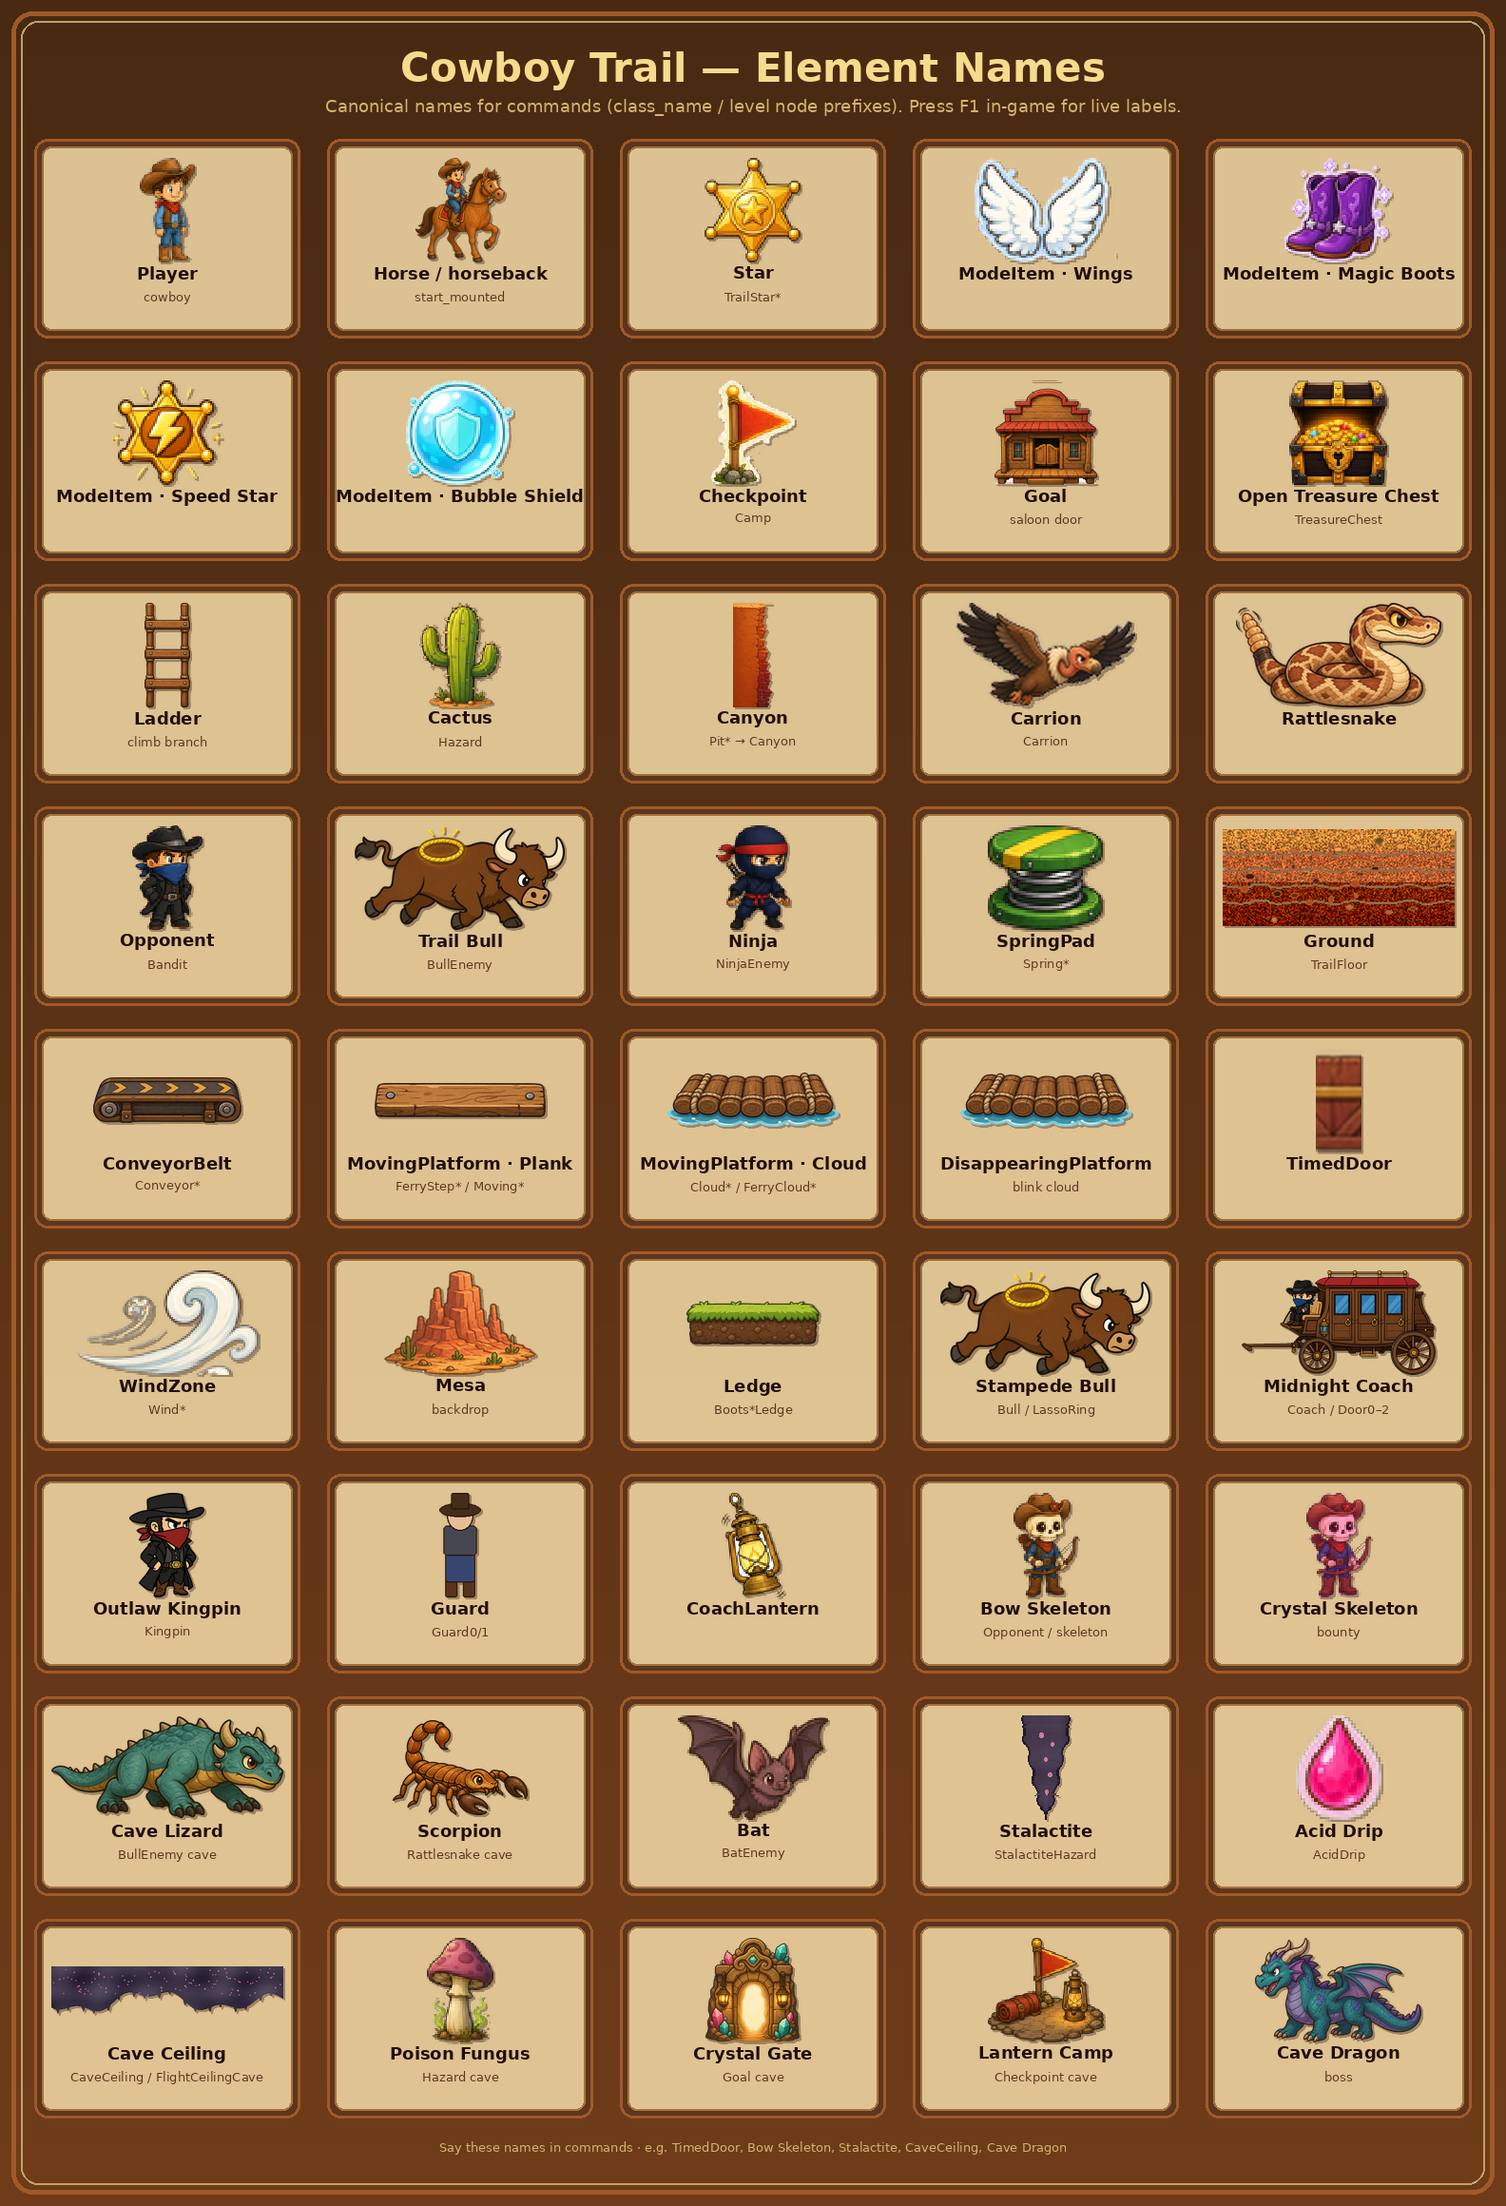
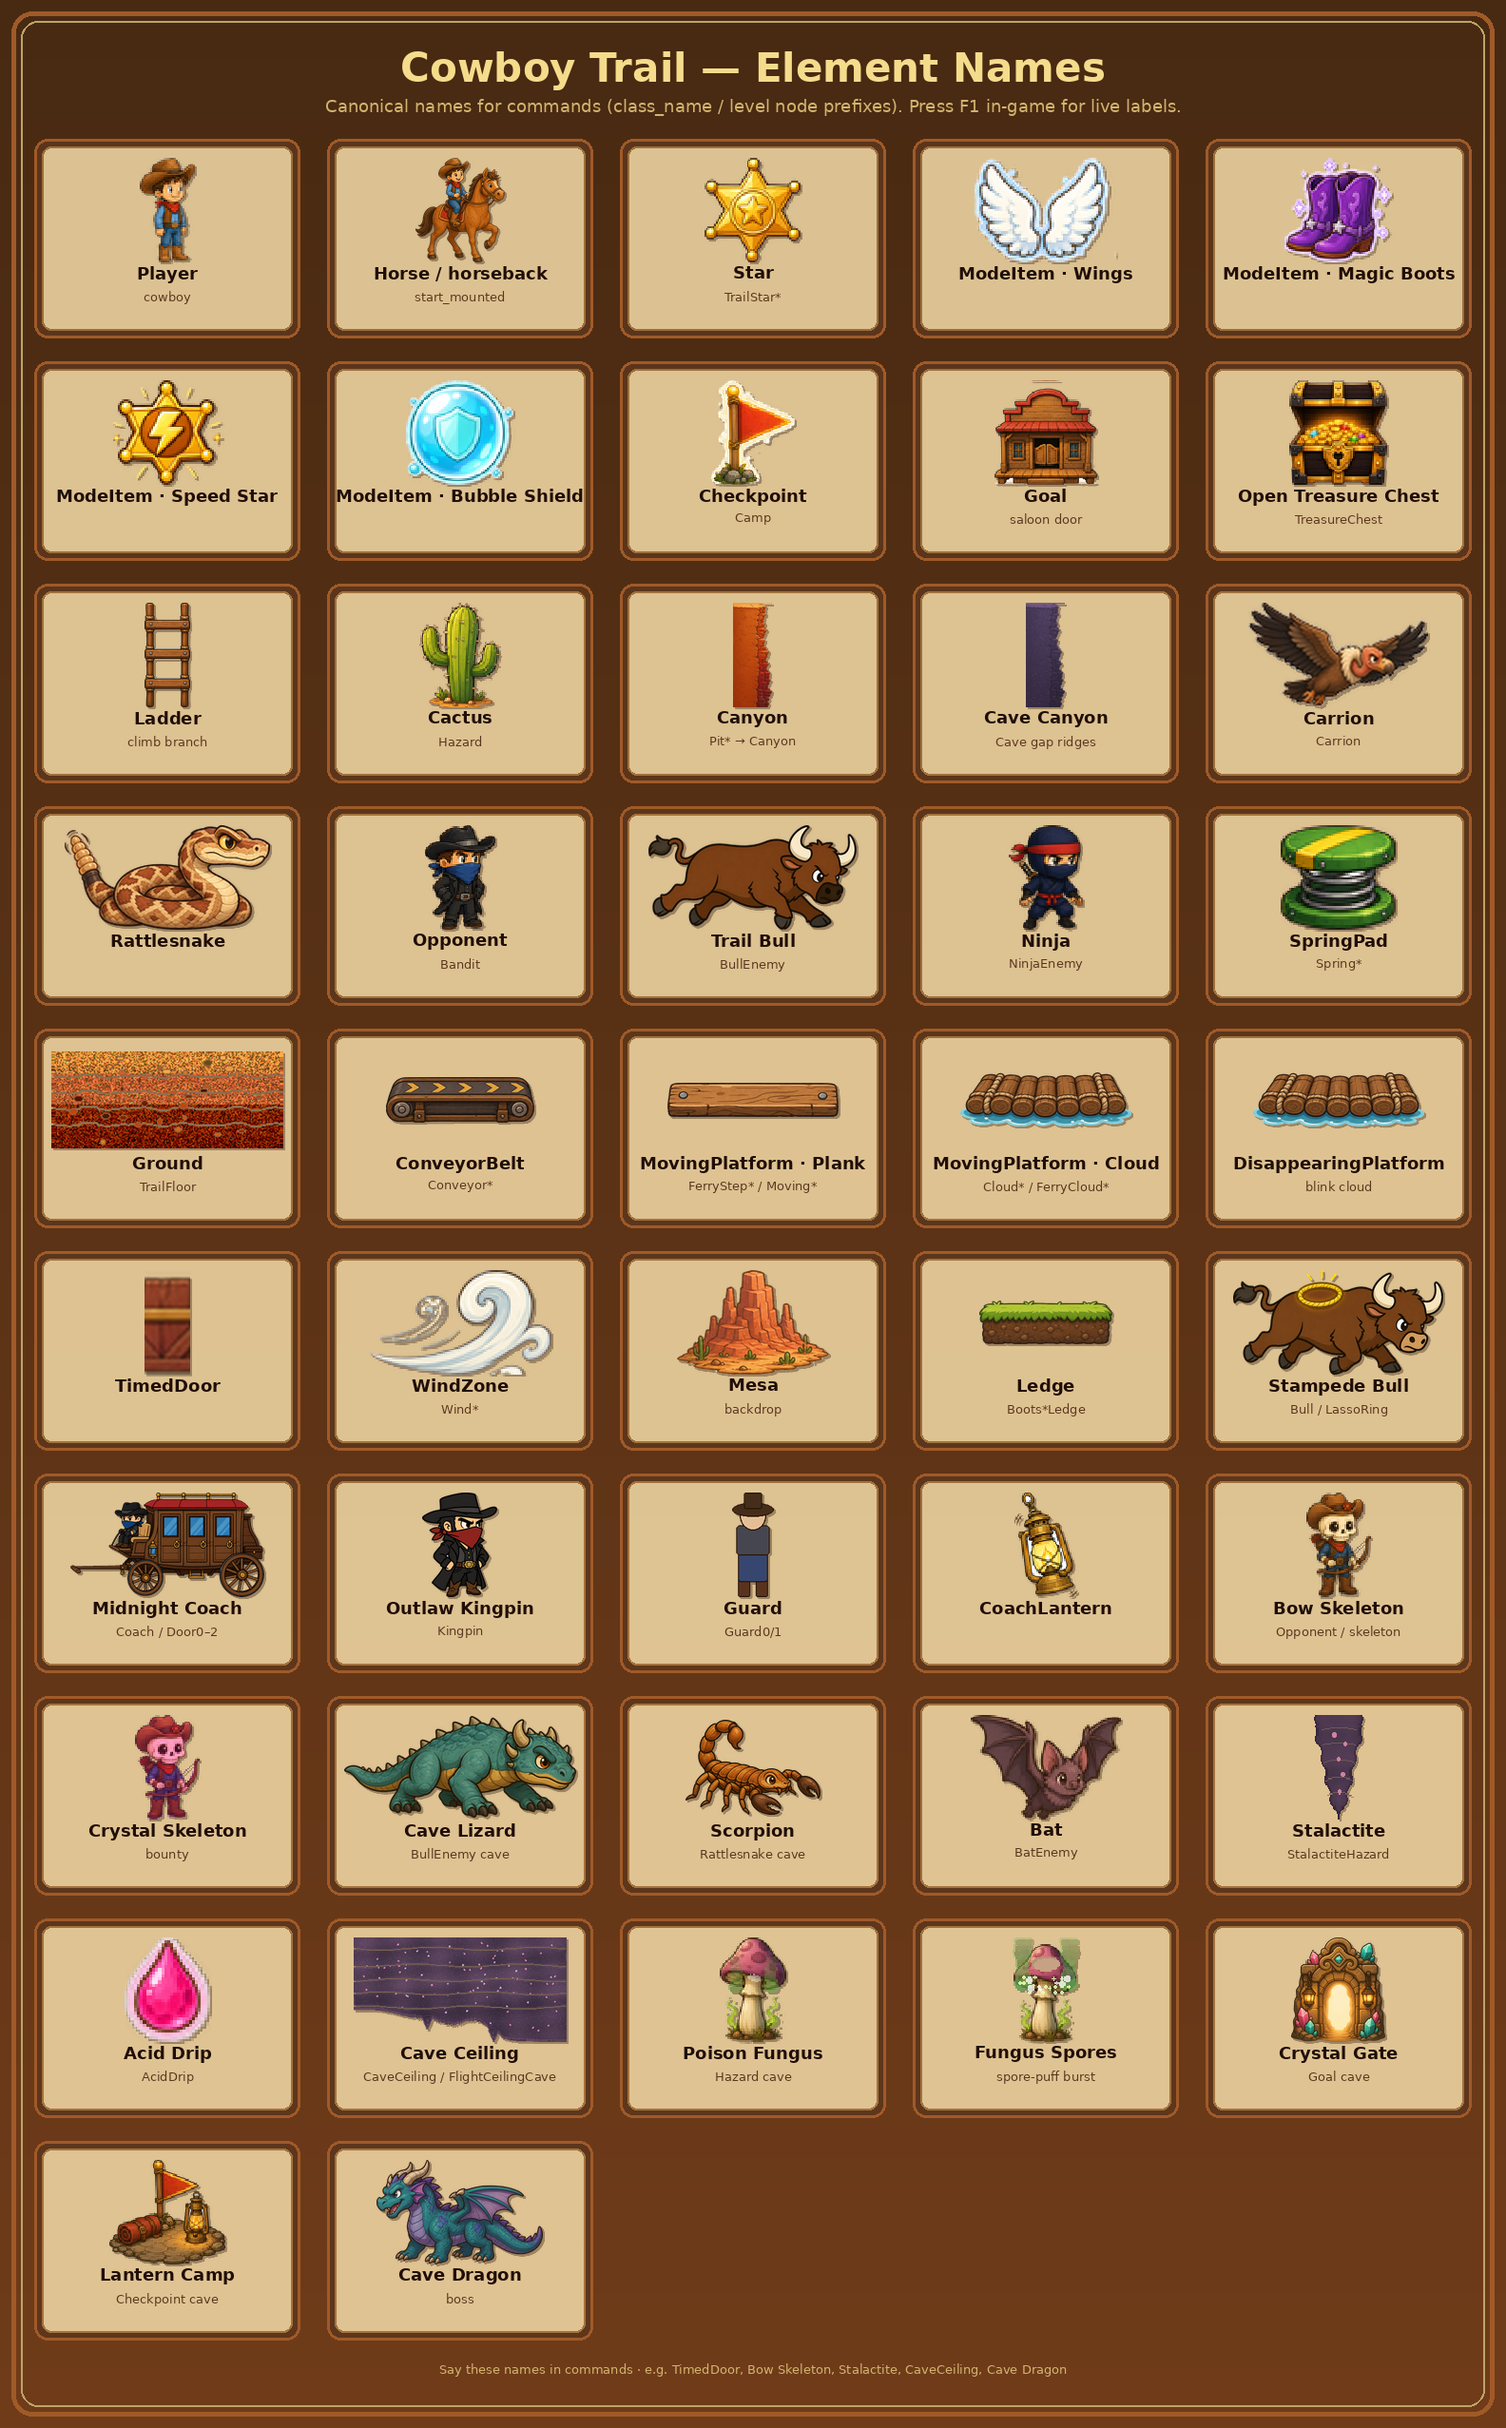
Give trail bulls ring-free art and run cycles for trail and boss.
Trail enemies no longer reuse the stampede ring sprite; both trail and Stampede Bull play a 4-frame charge run.

diff --git a/tools/build_bull_frames.py b/tools/build_bull_frames.py
@@ -1,0 +1,91 @@
+"""Build trail/boss bull standing + run frames from `assets/source/bull/`.
+
+Trail bull standing has no painted lasso ring. Boss standing stays
+`assets/world/boss_stampede_bull.png` (ring kept for the stampede fight).
+Run cycles are 4-frame strips keyed and framed to 320×160.
+
+    python tools/build_bull_frames.py
+"""
+from __future__ import annotations
+
+from pathlib import Path
+
+from PIL import Image
+
+from art_pipeline import cutout, frame_sprite
+
+ROOT = Path(__file__).resolve().parent.parent
+SRC = ROOT / "assets" / "source" / "bull"
+OUT = ROOT / "assets" / "world"
+
+CANVAS = (320, 160)
+BASELINE = 150
+BODY_H = 118
+
+
+def _frame(img: Image.Image) -> Image.Image:
+	return frame_sprite(img, canvas=CANVAS, target_h=BODY_H, baseline=BASELINE)
+
+
+def _column_density(im: Image.Image, *, win: int = 8) -> list[float]:
+	w, h = im.size
+	ap = im.split()[3].load()
+	dens = [sum(1 for y in range(h) if ap[x, y] > 8) for x in range(w)]
+	smooth: list[float] = []
+	for x in range(w):
+		lo = max(0, x - win)
+		hi = min(w, x + win + 1)
+		smooth.append(sum(dens[lo:hi]) / (hi - lo))
+	return smooth
+
+
+def _valley_cuts(im: Image.Image, count: int = 4) -> list[int]:
+	"""Split a packed horizontal strip at density valleys between figures."""
+	w, _ = im.size
+	sm = _column_density(im)
+	cuts = [0]
+	for bi in range(1, count):
+		center = int(w * bi / count)
+		lo = max(0, center - 50)
+		hi = min(w, center + 50)
+		region = sm[lo:hi]
+		best = min(range(len(region)), key=lambda i: region[i])
+		cuts.append(lo + best)
+	cuts.append(w)
+	return cuts
+
+
+def _save_strip(src_name: str, out_prefix: str) -> None:
+	keyed = cutout(str(SRC / src_name), level=200, sat=25)
+	cuts = _valley_cuts(keyed, 4)
+	inset = 10
+	for i in range(4):
+		x0 = cuts[i] + inset
+		x1 = cuts[i + 1] - inset
+		cell = keyed.crop((x0, 0, x1, keyed.size[1]))
+		bbox = cell.getbbox()
+		if bbox:
+			cell = cell.crop(bbox)
+		path = OUT / f"{out_prefix}_run_{i}.png"
+		_frame(cell).save(path)
+		print("wrote", path.relative_to(ROOT))
+
+
+def build() -> None:
+	stand_src = SRC / "standing_no_ring.png"
+	if not stand_src.exists():
+		raise SystemExit(f"Missing {stand_src}")
+	stand = cutout(str(stand_src), level=200, sat=25)
+	bbox = stand.getbbox()
+	if bbox:
+		stand = stand.crop(bbox)
+	stand_path = OUT / "trail_bull.png"
+	_frame(stand).save(stand_path)
+	print("wrote", stand_path.relative_to(ROOT))
+
+	_save_strip("run_strip_no_ring.png", "trail_bull")
+	_save_strip("run_strip_boss.png", "boss_stampede_bull")
+
+
+if __name__ == "__main__":
+	build()

diff --git a/tools/build_element_reference.py b/tools/build_element_reference.py
@@ -33,7 +33,7 @@ ENTRIES: list[tuple[str, str, str]] = [
     ("Carrion", "assets/world/carrion_bird.png", "Carrion"),
     ("Rattlesnake", "assets/world/rattlesnake_idle.png", ""),
     ("Opponent", "assets/world/bandit.png", "Bandit"),
-    ("Trail Bull", "assets/world/boss_stampede_bull.png", "BullEnemy"),
+    ("Trail Bull", "assets/world/trail_bull.png", "BullEnemy"),
     ("Ninja", "assets/world/ninja_idle.png", "NinjaEnemy"),
     ("SpringPad", "assets/world/spring.png", "Spring*"),
     # Platforms & world

diff --git a/README.md b/README.md
@@ -2,7 +2,7 @@
 
 Child-friendly 2D western cowboy platformer (Godot **4.4**). Aimed at kids ~6: forgiving jumps, nonviolent lasso. **Classic mode** has no lives or game over; **Advanced Mode** (chosen in **Settings** before starting or continuing a slot) adds a three-life limit, badge milestones, and a game-over return to the start screen. Pick **Cowboy** or **Cowgirl** in Settings — the choice applies across all save slots. **German is the default language**; English is fully supported.
 
-**Content version:** `1.8.47` (see `content_version.txt`). Launchers reimport when this stamp changes.
+**Content version:** `1.8.48` (see `content_version.txt`). Launchers reimport when this stamp changes.
 
 This README is the **binding source of truth** for gameplay, level design, art, i18n, and audio. Agents and contributors must follow it (see [Agent / contributor rules](#agent--contributor-rules)).
 
@@ -126,7 +126,7 @@ Agents **must** honor these when editing levels or trail systems:
 - User-facing copy: wide trail gaps = **canyon**; fixed 128×64 dirt holes = **pit** (legacy node names like `Pit3` on scaled canyon hazards may remain internally).
 - **Pits:** workshop **Hazards** stamp; exact `pit.png` size; dirt-only placement; same fall/respawn/life rules as canyons (Bubble Shield does not save pit falls).
 - Bandits: downward jump stomp from above / lasso tie; any other contact hurts; **turn at plank edges** (do not walk off).
-- **Trail bulls / cave lizards:** reuse stampede-bull / lizard art scaled to bandit height; charge the player when nearby (always face the cowboy); at a **pit or canyon lip** they **turn around and run back ~8 cm** instead of tumbling in; workshop/campaign placement keeps them on **solid dirt only** (never on a pit mouth or canyon stamp); lasso or head stomp plays the full boss tying sequence (rope coils → legs bound → tip over → lying on the floor at the same on-screen size); side contact hurts.
+- **Trail bulls / cave lizards:** trail bulls use ring-free standing art plus a short run cycle while charging/retreating (cave lizards keep lizard art); charge the player when nearby (always face the cowboy); at a **pit or canyon lip** they **turn around and run back ~8 cm** instead of tumbling in; workshop/campaign placement keeps them on **solid dirt only** (never on a pit mouth or canyon stamp); lasso or head stomp plays the full boss tying sequence (rope coils → legs bound → tip over → lying on the floor at the same on-screen size); side contact hurts. Stampede Bull boss keeps the painted back ring and uses its own run frames while charging.
 - **Ninjas:** handcrafted **chibi cel-shaded sprites** in the same big-head / thick-ink style as the bandit (`tools/build_ninja_frames.py`: hooded head, red headband + obi, navy gi, 64×80); workshop stamp marks an **ambush anchor** — when the cowboy enters range, the ninja **appears ~12 columns (480 px) in front** of him, runs in with a **sword slash** on reach, **jumps pits and canyons** toward the cowboy (crouch + airborne jump frames), and throws hand-drawn **shuriken** at winged flyers; lasso or head stomp ties with a unique bound rope pose; **camp respawn** cancels appear/chase/jump and hides him back at the stamp post (unless already tied at that camp).
 - **No cactus inside canyon mouths** or on hand-painted rim bands (keep clear of the rim body past the gap).
 - **Rattlesnakes / scorpions:** floor hazards that raise then bite/sting; desert trails can stamp both; cave remaps the rattlesnake stamp to scorpion art. Campaign desert levels 6/8/9/10 place a late-trail scorpion among the snakes.
